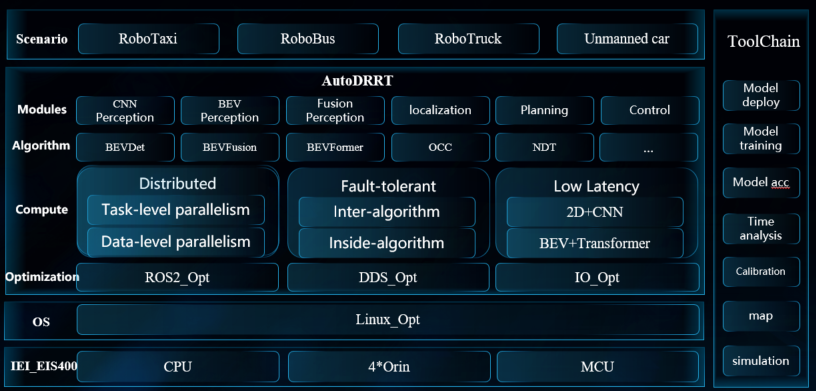
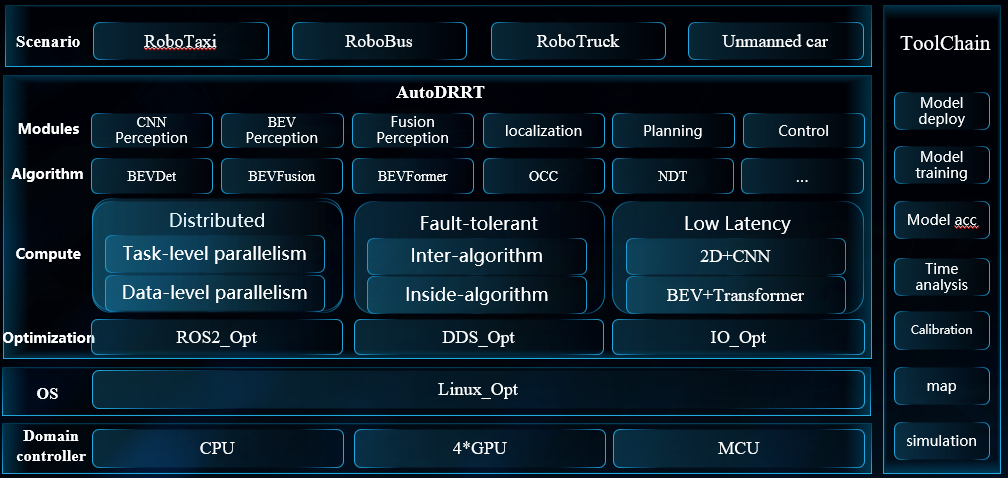
delete eis400

diff --git a/README.md b/README.md
@@ -1,5 +1,5 @@
 # Autonomous Driving Computing Framework AutoDRRT
-AutoDRRT is an autonomous driving framework developed based on the [Autoware open-source framework](https://github.com/autowarefoundation/autoware/tree/main), with targeted optimizations for the IEI_EIS400 onboard domain controller. These optimizations enhance the framework's real-time performance, distributability, and fault tolerance. A set of tools is provided to facilitate users in making use of these new features more easily. This framework is built upon the Robot Operating System 2 (ROS2). It encompasses all necessary functionalities from localization and target detection to path planning and control, striving to lower the entry barrier and aiming to involve as many individuals and organizations as possible in the open innovation of autonomous driving technology.
+AutoDRRT is an autonomous driving framework developed based on the [Autoware open-source framework](https://github.com/autowarefoundation/autoware/tree/main), with targeted optimizations for the onboard domain controller. These optimizations enhance the framework's real-time performance, distributability, and fault tolerance. A set of tools is provided to facilitate users in making use of these new features more easily. This framework is built upon the Robot Operating System 2 (ROS2). It encompasses all necessary functionalities from localization and target detection to path planning and control, striving to lower the entry barrier and aiming to involve as many individuals and organizations as possible in the open innovation of autonomous driving technology.
 
 ## Key Updates(v2.1)
 
@@ -45,24 +45,13 @@ The target platforms for AutoDRRT are as follows. There might be changes in futu
 
 The AutoDRRT Foundation provides support only for the platforms listed below. Other platforms are not supported.
 
-### Platform Architectures
-- arm64
-
-        Recommend: NVIDIA Orin Jetson Linux 35.4.1
-
-### Recommended Platforms
-
-- [IEI_EIS400](./docs/en/EIS400.md)
-
-- NVIDIA Orin
-
 ### Minimum System Requirements
 
 - 8-core CPU
 
 - 16GB RAM
 
-- NVIDIA GPU (4GB RAM)
+- GPU (4GB RAM)
 
 ### Installation Instructions
 
